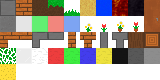
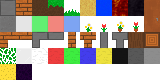
added infection tile

Changed region(s): [[0.0938, 0.8, 0.2188, 1.0]]

diff --git a/World.cs b/World.cs
@@ -63,25 +63,24 @@ public class World
 
     public void UpdateObsidian()
     {
-        string id = "lava";
-        var waterBlocks = new List<(int x, int y)>();
+        var lavaBlocks = new List<(int x, int y)>();
         for (int x = 0; x < CHUNK_AREA * Chunk.SIZE; x++)
         {
             for (int y = 0; y < CHUNK_AREA * Chunk.SIZE; y++)
             {
                 if (GetTile(x, y) == 0) continue;
 
-                if (IsTileA(x, y, id))
+                if (IsTileA(x, y, "lava"))
                 {
-                    waterBlocks.Add((x, y));
+                    lavaBlocks.Add((x, y));
                 }
             }
         }
 
-        foreach (var waterBlock in waterBlocks)
+        foreach (var lavaBlock in lavaBlocks)
         {
-            int x = waterBlock.x;
-            int y = waterBlock.y;
+            int x = lavaBlock.x;
+            int y = lavaBlock.y;
 
             if (!IsTileA(x, y - 1, 0) && IsTileA(x, y - 1, "water"))
                 PlaceTile(x, y, Tile.GetNId("obsidian"));
@@ -96,25 +95,24 @@ public class World
 
     public void UpdateSand()
     {
-        string id = "sand";
-        var waterBlocks = new List<(int x, int y)>();
+        var sandBlocks = new List<(int x, int y)>();
         for (int x = 0; x < CHUNK_AREA * Chunk.SIZE; x++)
         {
             for (int y = 0; y < CHUNK_AREA * Chunk.SIZE; y++)
             {
                 if (GetTile(x, y) == 0) continue;
 
-                if (IsTileA(x, y, id))
+                if (IsTileA(x, y, "sand"))
                 {
-                    waterBlocks.Add((x, y));
+                    sandBlocks.Add((x, y));
                 }
             }
         }
 
-        foreach (var waterBlock in waterBlocks)
+        foreach (var sandBlock in sandBlocks)
         {
-            int x = waterBlock.x;
-            int y = waterBlock.y;
+            int x = sandBlock.x;
+            int y = sandBlock.y;
 
             if (IsTileA(x, y + 1, 0) || IsTileA(x, y + 1, "water"))
             {
@@ -128,13 +126,33 @@ public class World
         }
     }
 
-    // public void UpdatePhysics()
-    // {
-    //     string sandId = "sand";
-    //     string waterId = "water";
-    //     string lavaId = "lava";
-    //     string obisdianId = "obsidian";
-    // }
+    public void UpdateInfection()
+    {
+        var infectionBlocks = new List<(int x, int y)>();
+        for (int x = 0; x < CHUNK_AREA * Chunk.SIZE; x++)
+        {
+            for (int y = 0; y < CHUNK_AREA * Chunk.SIZE; y++)
+            {
+                if (GetTile(x, y) == 0) continue;
+
+                if (IsTileA(x, y, "infection_block"))
+                {
+                    infectionBlocks.Add((x, y));
+                }
+            }
+        }
+
+        foreach (var infectionBlock in infectionBlocks)
+        {
+            int x = infectionBlock.x;
+            int y = infectionBlock.y;
+
+            if (!IsTileA(x - 1, y, 0)) PlaceTile(x - 1, y, Tile.GetNId("infection_block"));
+            if (!IsTileA(x + 1, y, 0)) PlaceTile(x + 1, y, Tile.GetNId("infection_block"));
+            if (!IsTileA(x, y - 1, 0)) PlaceTile(x, y - 1, Tile.GetNId("infection_block"));
+            if (!IsTileA(x, y + 1, 0)) PlaceTile(x, y + 1, Tile.GetNId("infection_block"));
+        }
+    }
 
     public void Update()
     {
@@ -144,6 +162,7 @@ public class World
         if (!Settings.EnablePhysics) return;
 
         if (tick == 7) UpdateObsidian();
+        if (tick == 9 && Settings.EnableInfectionBlock) UpdateInfection();
         if (tick == 15) UpdateSand();
         if (tick == 10) UpdateLiqiud("water");
         if (tick == 20) UpdateLiqiud("lava");

diff --git a/MenuScreen.cs b/MenuScreen.cs
@@ -17,6 +17,7 @@ public class MenuScreen : Screen
     TextBlock bgColorTitle = null!;
     RgbBoxLine bgColorLine = null!;
     CheckBox physicsCheckBox = null!;
+    CheckBox enableInfectionCheckBox = null!;
 
     public override void Initialize()
     {
@@ -32,6 +33,7 @@ public class MenuScreen : Screen
             settingsPanel.Area = new Rectangle(50, 50, Program.WIDTH - 50 * 2, Program.HEIGHT - 50 * 2);
             Settings.SkyColor = bgColorLine.ExportColor();
             Settings.EnablePhysics = physicsCheckBox.Checked;
+            Settings.EnableInfectionBlock = enableInfectionCheckBox.Checked;
         };
 
         bgColorTitle = new TextBlock(
@@ -75,6 +77,23 @@ public class MenuScreen : Screen
         };
         physicsCheckBox.Checked = Settings.EnablePhysics;
         settingsPanel.Children.Add(physicsCheckBox);
+
+        enableInfectionCheckBox = new CheckBox("enableInfectionCheckBox", "enable infection tiles",
+            new Vector2(settingsPanel.Area.x + 8, settingsPanel.Area.y + (16 + 8 + 18) * 2),
+            18
+        );
+        enableInfectionCheckBox.ClientUpdate += () =>
+        {
+            var point = new Vector2(settingsPanel.Area.x + 8, settingsPanel.Area.y + (16 + 8 + 18) * 2);
+            enableInfectionCheckBox.Area = new Rectangle(
+                point.X,
+                point.Y,
+                enableInfectionCheckBox.Area.width,
+                enableInfectionCheckBox.Area.height
+            );
+        };
+        enableInfectionCheckBox.Checked = Settings.EnableInfectionBlock;
+        settingsPanel.Children.Add(enableInfectionCheckBox);
 
         var title = new TextBlock("title", "building game", new Vector2(12, CalculateYForButton(0)), 36);
         title.ClientUpdate += () =>

diff --git a/Settings.cs b/Settings.cs
@@ -7,11 +7,7 @@ public class Settings
 {
     public static Color SkyColor = Color.SKYBLUE;
     public static bool EnablePhysics = false;
-
-    public byte skyColorR { get; set; }
-    public byte skyColorG { get; set; }
-    public byte skyColorB { get; set; }
-    public bool enablePhysics { get; set; }
+    public static bool EnableInfectionBlock = false;
 
     public static void Save()
     {
@@ -22,7 +18,8 @@ public class Settings
                 { "skyColorR", SkyColor.r.ToString() },
                 { "skyColorG", SkyColor.g.ToString() },
                 { "skyColorB", SkyColor.b.ToString() },
-                { "enablePhysics", EnablePhysics.ToString() }
+                { "enablePhysics", EnablePhysics.ToString() },
+                { "enableInfectionBlock", EnableInfectionBlock.ToString() }
             });
         }
         catch (Exception ex) { Console.WriteLine(ex); }
@@ -42,6 +39,8 @@ public class Settings
 
             if (bool.TryParse(data["enablePhysics"], out bool enablePhysics))
                 EnablePhysics = enablePhysics;
+            if (bool.TryParse(data["enableInfectionBlock"], out bool enableInfectionBlock))
+                EnableInfectionBlock = enableInfectionBlock;
         }
         catch (Exception ex) { Console.WriteLine(ex); }
     }
